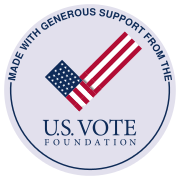
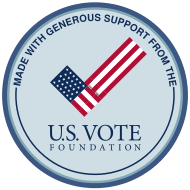
changed some 'landing' page styling particularly the USVF badge. satisfied with the badge for the time being. moving on to fixing webpack build issues.

diff --git a/src/components/Landing.vue b/src/components/Landing.vue
@@ -233,7 +233,7 @@ export default {
   z-index: 777;
   position: absolute;
   top: 4.8rem;
-  right: -8;
+  right: -5rem;
   /* filter: drop-shadow(7px 9px 20px rgba(225, 226, 238, 0.36));
 	-webkit-filter: drop-shadow(7px 9px 20px rgba(225, 226, 238, 0.36)); */
   /* -webkit-filter: drop-shadow(4px 4px 0 #A57F70);
@@ -241,15 +241,14 @@ export default {
 }
 
 #landingInfo {
-  color: #E2F4D6;
+  color: #f6c777;
   font-family: 'Cambo', serif;
   font-size: 250%;
   text-align: left;
-  width: 38rem;
+  width: 34rem;
   top: 30.5rem;
   line-height: 110%;
-  padding-left: 1.5rem;
-  margin-left: 2.5rem;
+  margin-left: 4.75rem;
   margin-top: .75rem;
 }
 
@@ -275,8 +274,8 @@ export default {
   text-align: left;
   font-size: 8.5rem;
   line-height: 80%;
-  left: 1.5rem;
-  margin-top: 3.75rem;
+  left: 2.5rem;
+  margin-top: 4.75rem;
   position: absolute;
   /* -webkit-text-stroke: 3px #343434; */
 }
@@ -320,35 +319,35 @@ export default {
 input:focus {
   outline: none;
   border: none;
-  color: #C68512;
+  color: #f6c777;
   font-weight: 600;
 }
 input::-webkit-input-placeholder {
-  color: #C68512 !important;
+  color: #f6c777 !important;
   font-family: 'IBM Plex Sans Condensed', sans-serif;
   font-weight: 600;
 }
 input:-moz-placeholder {
   /* Firefox 18- */
-  color: #C68512 !important;
+  color: #f6c777 !important;
   font-family: 'IBM Plex Sans Condensed', sans-serif;
   font-weight: 600;
 }
 input::-moz-placeholder {
   /* Firefox 19+ */
-  color: #C68512 !important;
+  color: #f6c777 !important;
   font-family: 'IBM Plex Sans Condensed', sans-serif;
   font-weight: 600;
 }
 input:-ms-input-placeholder {
   /* IE 10+ */
-  color: #C68512 !important;
+  color: #f6c777 !important;
   font-family: 'IBM Plex Sans Condensed', sans-serif;
   font-weight: 600;
 }
 input::-ms-input-placeholder {
   /* Edge */
-  color: #C68512 !important;
+  color: #f6c777 !important;
   font-family: 'IBM Plex Sans Condensed', sans-serif;
   font-weight: 600;
 }
@@ -367,7 +366,7 @@ input::-ms-input-placeholder {
   border:none;
   border-radius: 0%;
   background-color: transparent;
-  border-bottom: 2px solid #C68512 !important;
+  border-bottom: 2px solid #f6c777 !important;
 }
 #address-input:focus {
   outline:none;
